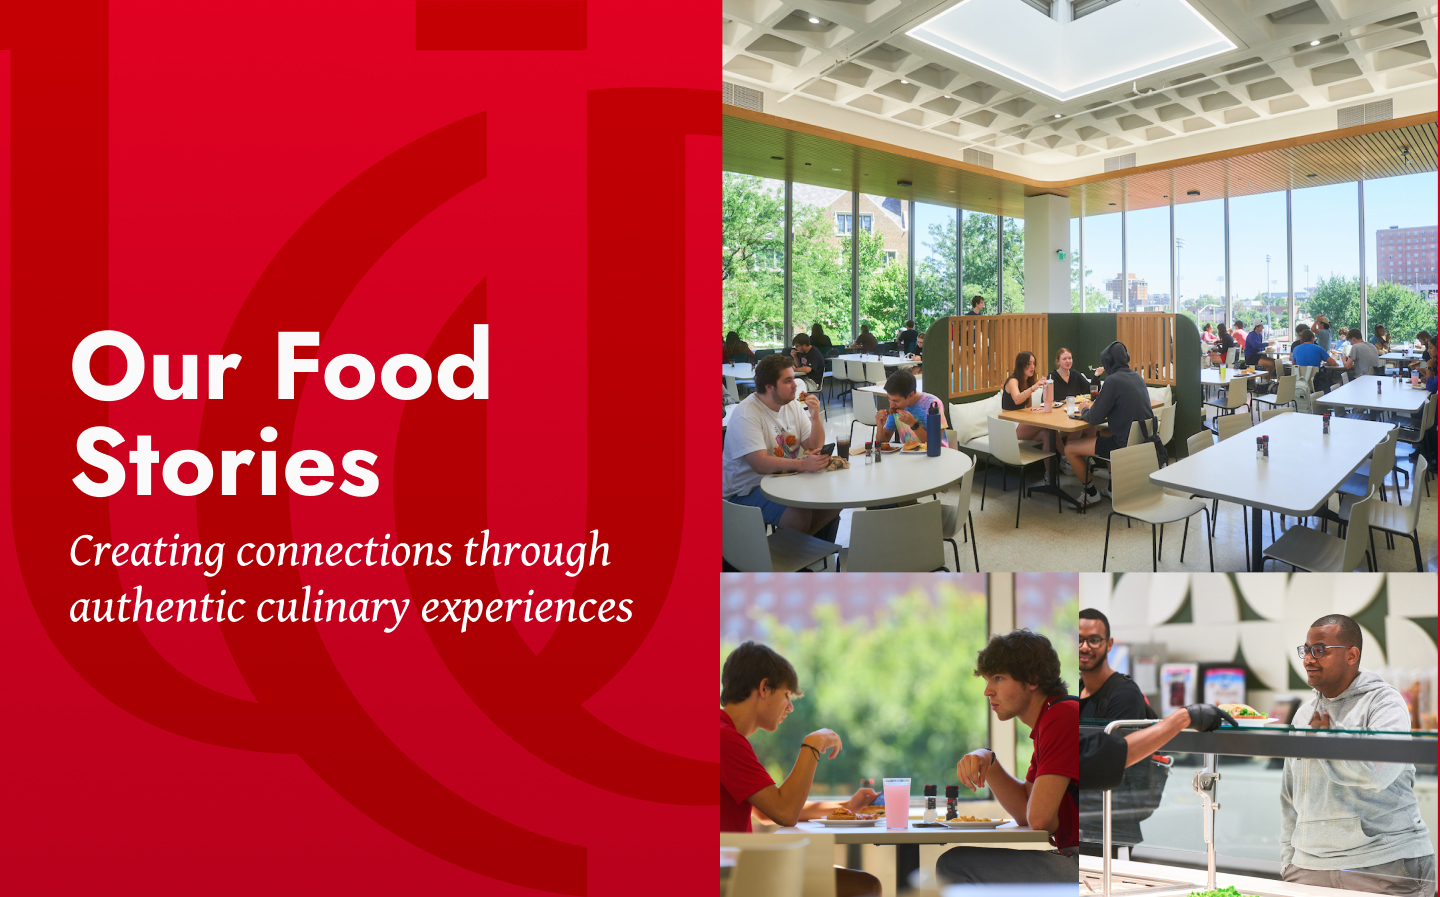
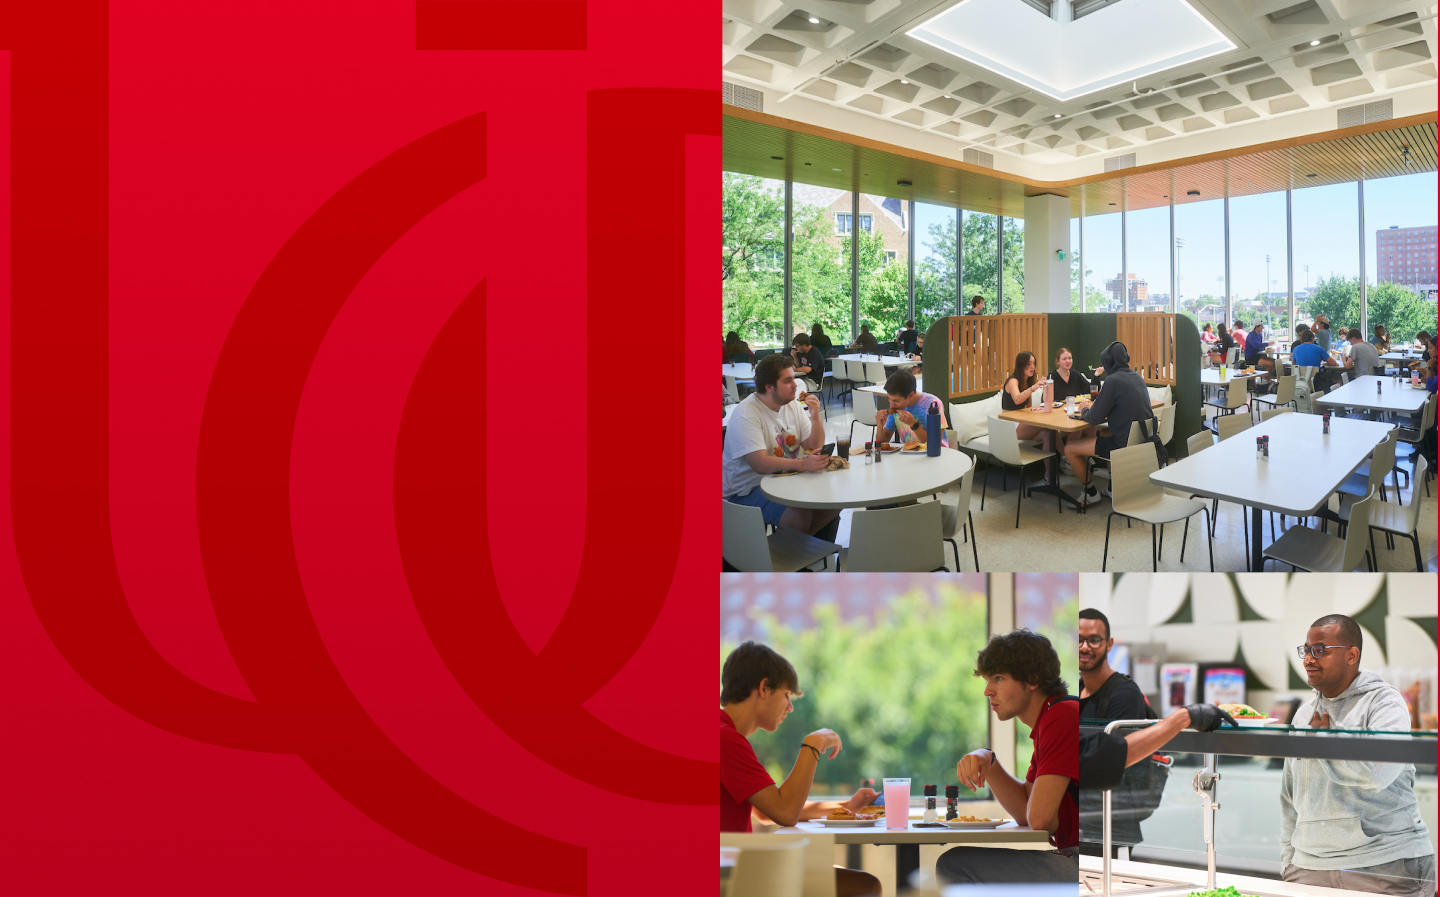
updates

Changed region(s): [[0.0312, 0.3434, 0.3438, 0.5619], [0.0312, 0.5931, 0.4375, 0.7179]]

diff --git a/about-us.html b/about-us.html
@@ -12,7 +12,7 @@
 
     <header>
       <nav class="navbar navbar-expand-md bg-dark" data-bs-theme="dark">
-        <div class="container py-2">
+        <div class="container-fluid py-2 px-5">
           <a class="navbar-brand" href="/">
             <img src="/svg/header-logo.svg" alt="University of Cincinnati">
           </a>
@@ -21,6 +21,9 @@
           </button>
           <div class="collapse navbar-collapse" id="navbarNav">
             <ul class="navbar-nav">
+              <li class="nav-item px-2">
+                <a class="nav-link" href="/">Home</a>
+              </li>
               <li class="nav-item px-2">
                 <a class="nav-link" href="/about-us.html">About Us</a>
               </li>
@@ -112,9 +115,6 @@
                 <p class="m-1">
                   With more than two decades of experience, Brent is a driven leader who prides himself on creating unique student experiences.
                 </p>
-                <a href="javascript:void(0)" class="sub-text pt-0">
-                  View Job Description & Resume
-                </a>
               </div>
             </div>
           </div>
@@ -136,9 +136,6 @@
                 <p class="m-1">
                   With 7 years of experience, Carissa has dedicated herself to creating hospitality focused campaigns and making data-driven decisions that have a positive financial impact.
                 </p>
-                <a href="javascript:void(0)" class="sub-text pt-0">
-                  View Job Description & Resume
-                </a>
               </div>
             </div>
           </div>
@@ -158,9 +155,6 @@
                 <p class="m-1">
                   Ashley is responsible for all talent management related activities for 700 dining employees including labor relations, recruiting, and engagement.
                 </p>
-                <a href="javascript:void(0)" class="sub-text pt-0">
-                  View Job Description & Resume
-                </a>
               </div>
             </div>
           </div>
@@ -182,9 +176,6 @@
                 <p class="m-1">
                   Scott is a seasoned financial professional with a strong commitment to providing a fiscally responsible approach while meeting the goals of the University’s dining program. 
                 </p>
-                <a href="javascript:void(0)" class="sub-text pt-0">
-                  View Job Description & Resume
-                </a>
               </div>
             </div>
           </div>
@@ -204,9 +195,6 @@
                 <p class="m-1">
                   As Director of Culinary for Bearcats Culinary Group, Danielle prides herself on creating wholesome, quality, local, and sustainable menus for the campus community.
                 </p>
-                <a href="javascript:void(0)" class="sub-text pt-0">
-                  View Job Description & Resume
-                </a>
               </div>
             </div>
           </div>
@@ -228,9 +216,6 @@
                 <p class="m-1">
                   Mary Beth has a meticulous passion for detail, and has established herself as a leader in organizing and executing catering events, whether large or small. 
                 </p>
-                <a href="javascript:void(0)" class="sub-text pt-0">
-                  View Job Description & Resume
-                </a>
               </div>
             </div>
           </div>
@@ -250,9 +235,6 @@
                 <p class="m-1">
                   With more than two decades of experience, Kendall has successfully led teams of more than 30 salaried managers across dining halls and retail locations alike.  .
                 </p>
-                <a href="javascript:void(0)" class="sub-text pt-0">
-                  View Job Description & Resume
-                </a>
               </div>
             </div>
           </div>
@@ -274,9 +256,6 @@
                 <p class="m-1">
                   Robin is an experienced leader who thrives in fast-paced environments and drives innovating solutions, while ensuing a positive experience for both guests and students. 
                 </p>
-                <a href="javascript:void(0)" class="sub-text pt-0">
-                  View Job Description & Resume
-                </a>
               </div>
             </div>
           </div>
@@ -309,7 +288,7 @@
     </main>
 
     <footer class="bg-dark">
-      <div class="container bg-dark" data-bs-theme="dark">
+      <div class="container-fluid px-5 bg-dark" data-bs-theme="dark">
         <div class="row row-cols-1 row-cols-sm-2 row-cols-md-5 py-5">
           <div class="col mb-3">
             <a href="/" class="d-flex align-items-center mb-3 link-body-emphasis text-decoration-none">

diff --git a/beyond.html b/beyond.html
@@ -3,7 +3,7 @@
   <head>
     <meta charset="utf-8">
     <meta name="viewport" content="width=device-width, initial-scale=1">
-    <title>UC - About Us</title>
+    <title>UC - 2024 and Beyond</title>
     <link href="https://cdn.jsdelivr.net/npm/bootstrap@5.3.2/dist/css/bootstrap.min.css" rel="stylesheet" integrity="sha384-T3c6CoIi6uLrA9TneNEoa7RxnatzjcDSCmG1MXxSR1GAsXEV/Dwwykc2MPK8M2HN" crossorigin="anonymous">
     <link href="./styles/style.css" rel="stylesheet">
     <link rel="icon" href="svg/favicon.svg">
@@ -12,7 +12,7 @@
 
     <header>
       <nav class="navbar navbar-expand-md bg-dark" data-bs-theme="dark">
-        <div class="container py-2">
+        <div class="container-fluid py-2 px-5">
           <a class="navbar-brand" href="/">
             <img src="/svg/header-logo.svg" alt="University of Cincinnati">
           </a>
@@ -21,6 +21,9 @@
           </button>
           <div class="collapse navbar-collapse" id="navbarNav">
             <ul class="navbar-nav">
+              <li class="nav-item px-2">
+                <a class="nav-link" href="/">Home</a>
+              </li>
               <li class="nav-item px-2">
                 <a class="nav-link" href="/about-us.html">About Us</a>
               </li>
@@ -40,11 +43,54 @@
     </header>
 
     <main>
-      
+      <section class="d-flex align-items-center beyond-image">
+        <div class="p-5 text-white w-50">
+          <h1 class="text-start">
+            The Future of Bearcats Culinary Group
+          </h1>
+          <p class="alt-text text-start">
+            Supporting the growth of the university through innovative solutions.
+          </p>
+        </div>
+      </section>
+
+      <section class="d-md-flex flex-md-equal align-items-center accent-row">
+        <div class="split">
+          <img src="images/stadium-hero.jpg" alt="Nippert Stadium">
+        </div>
+        <div class="split">
+          <div class="p-3 p-md-5">
+            <h2>
+              Our Commitment
+            </h2>
+            <div class="h2-line bg-white"></div>
+            <p>
+              The Bearcats Culinary Group is committed to proactively measuring and monitoring our performance around Student Experience, Quality Assurance, All Access meal plan usage, Local and Sustainable purchases, Strategic Planning and Administrative Engagement. 
+            </p>
+          </div>
+        </div>
+      </section>
+
+      <section class="gradient-black py-5">
+        <div class="container bg-uc-fade p-5">
+          <div class="p-5 align-items-center justify-content-center text-white">
+            <h2>
+              Continuing the Momentum Together
+            </h2>
+            <p>
+              We are grateful for our long-standing partnership with UC and for the opportunity to share an aligned vision for creating a top-tier hospitality program. To this day, we have evolved and are prepared with new, experienced leadership to take our program to the next level, enhancing the student experience to match the University’s reputation.
+            </p>
+            <p>
+              As the University continues to grow as a beacon of change, an academic innovator, and a model for innovative, forward thinking, we will grow right along with you, making the atmosphere at UC a community that no one can replicate. We are excited to continue our partnership and contribution to UC’s upward trajectory as your aligned, trusted partner who sees limitless potential in creating a stunningly Cincy showcase program.
+            </p>
+            <div class="h2-line bg-white"></div>
+          </div>
+        </div>
+      </section>
     </main>
 
     <footer class="bg-dark">
-      <div class="container bg-dark" data-bs-theme="dark">
+      <div class="container-fluid px-5 bg-dark" data-bs-theme="dark">
         <div class="row row-cols-1 row-cols-sm-2 row-cols-md-5 py-5">
           <div class="col mb-3">
             <a href="/" class="d-flex align-items-center mb-3 link-body-emphasis text-decoration-none">

diff --git a/the-food.html b/the-food.html
@@ -12,7 +12,7 @@
 
     <header>
       <nav class="navbar navbar-expand-md bg-dark" data-bs-theme="dark">
-        <div class="container py-2">
+        <div class="container-fluid py-2 px-5">
           <a class="navbar-brand" href="/">
             <img src="/svg/header-logo.svg" alt="University of Cincinnati">
           </a>
@@ -21,6 +21,9 @@
           </button>
           <div class="collapse navbar-collapse" id="navbarNav">
             <ul class="navbar-nav">
+              <li class="nav-item px-2">
+                <a class="nav-link" href="/">Home</a>
+              </li>
               <li class="nav-item px-2">
                 <a class="nav-link" href="/about-us.html">About Us</a>
               </li>
@@ -40,7 +43,16 @@
     </header>
 
     <main>
-      <section class="food-image"></section>
+      <section class="d-flex align-items-center food-image">
+        <div class="p-5 text-white w-50">
+          <h1 class="text-start">
+            Our Food Stories
+          </h1>
+          <p class="alt-text text-start">
+            Creating connections through authentic culinary experiences
+          </p>
+        </div>
+      </section>
       <section class="bg-black py-5">
         <h2 style="text-align: center; color: #D1B179">Delivering Next Lives Here Experience</h2>
         <div class="container pt-5">
@@ -148,7 +160,7 @@
     </main>
     
     <footer class="bg-dark">
-      <div class="container bg-dark" data-bs-theme="dark">
+      <div class="container-fluid px-5 bg-dark" data-bs-theme="dark">
         <div class="row row-cols-1 row-cols-sm-2 row-cols-md-5 py-5">
           <div class="col mb-3">
             <a href="/" class="d-flex align-items-center mb-3 link-body-emphasis text-decoration-none">

diff --git a/our-initiatives.html b/our-initiatives.html
@@ -12,7 +12,7 @@
 
     <header>
       <nav class="navbar navbar-expand-md bg-dark" data-bs-theme="dark">
-        <div class="container py-2">
+        <div class="container-fluid py-2 px-5">
           <a class="navbar-brand" href="/">
             <img src="/svg/header-logo.svg" alt="University of Cincinnati">
           </a>
@@ -21,6 +21,9 @@
           </button>
           <div class="collapse navbar-collapse" id="navbarNav">
             <ul class="navbar-nav">
+              <li class="nav-item px-2">
+                <a class="nav-link" href="/">Home</a>
+              </li>
               <li class="nav-item px-2">
                 <a class="nav-link" href="/about-us.html">About Us</a>
               </li>
@@ -40,7 +43,16 @@
     </header>
 
     <main>
-      <section class="initiatives-image"></section>
+      <section class="d-flex align-items-center initiatives-image">
+        <div class="p-5 text-white w-50">
+          <h1 class="text-start">
+            Our Initiatives
+          </h1>
+          <p class="alt-text text-start">
+            Contributing to the success and growth of the university by supporting key initiatives.
+          </p>
+        </div>
+      </section>
       <section class="py-5 text-center">
         <h2 style="color: var(--bs-primary);">
           Health & Wellness
@@ -130,7 +142,7 @@
     </main>
 
     <footer class="bg-dark">
-      <div class="container bg-dark" data-bs-theme="dark">
+      <div class="container-fluid px-5 bg-dark" data-bs-theme="dark">
         <div class="row row-cols-1 row-cols-sm-2 row-cols-md-5 py-5">
           <div class="col mb-3">
             <a href="/" class="d-flex align-items-center mb-3 link-body-emphasis text-decoration-none">

diff --git a/index.html b/index.html
@@ -12,7 +12,7 @@
 
     <header>
       <nav class="navbar navbar-expand-md bg-dark" data-bs-theme="dark">
-        <div class="container py-2">
+        <div class="container-fluid py-2 px-5">
           <a class="navbar-brand" href="/">
             <img src="/svg/header-logo.svg" alt="University of Cincinnati">
           </a>
@@ -21,6 +21,9 @@
           </button>
           <div class="collapse navbar-collapse" id="navbarNav">
             <ul class="navbar-nav">
+              <li class="nav-item px-2">
+                <a class="nav-link" href="/">Home</a>
+              </li>
               <li class="nav-item px-2">
                 <a class="nav-link" href="/about-us.html">About Us</a>
               </li>
@@ -139,7 +142,7 @@
     </main>
 
     <footer class="bg-dark">
-      <div class="container bg-dark" data-bs-theme="dark">
+      <div class="container-fluid px-5 bg-dark" data-bs-theme="dark">
         <div class="row row-cols-1 row-cols-sm-2 row-cols-md-5 py-5">
           <div class="col mb-3">
             <a href="/" class="d-flex align-items-center mb-3 link-body-emphasis text-decoration-none">

diff --git a/styles/style.css b/styles/style.css
@@ -244,6 +244,28 @@ a {
   height: 94vh;
 }
 
+/* Beyond 2024 Hero */
+.beyond-image {
+  background-image: url('/images/future-background.jpg');
+  background-size: cover;
+  background-position: center;
+  background-repeat: no-repeat;
+  height: 94vh;
+}
+
+/* UC Fade Background */
+.bg-uc-fade {
+  background-image: url('/images/uc-fade.jpg');
+  background-size: cover;
+  background-position: center;
+  background-repeat: no-repeat;
+  width: 100%;
+}
+
+.gradient-black {
+  background: linear-gradient(180deg, #000 0%, #404040 100%);
+}
+
 /* Buttons */
 .btn-outline-primary {
   color: var(--bs-primary);
